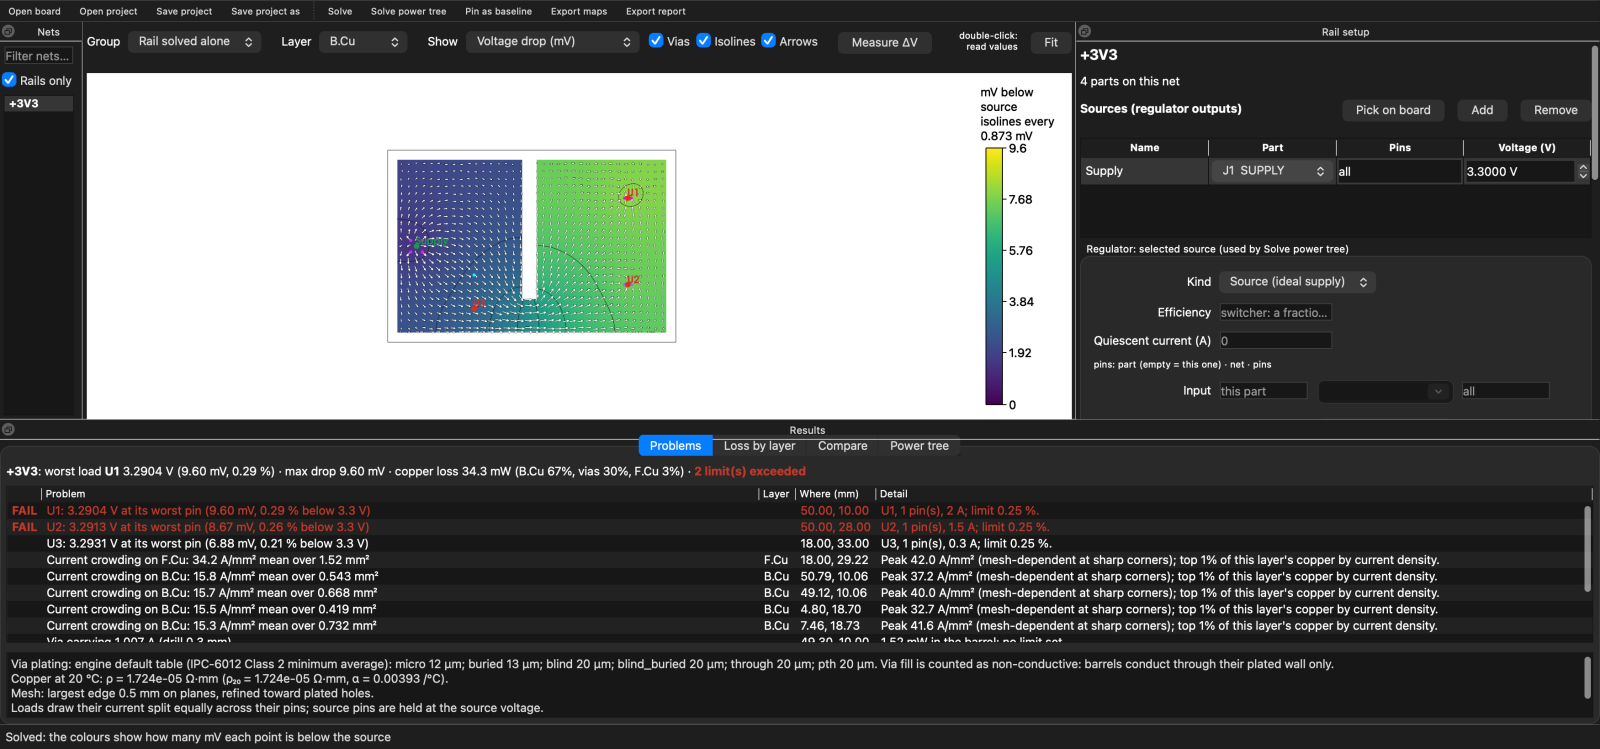
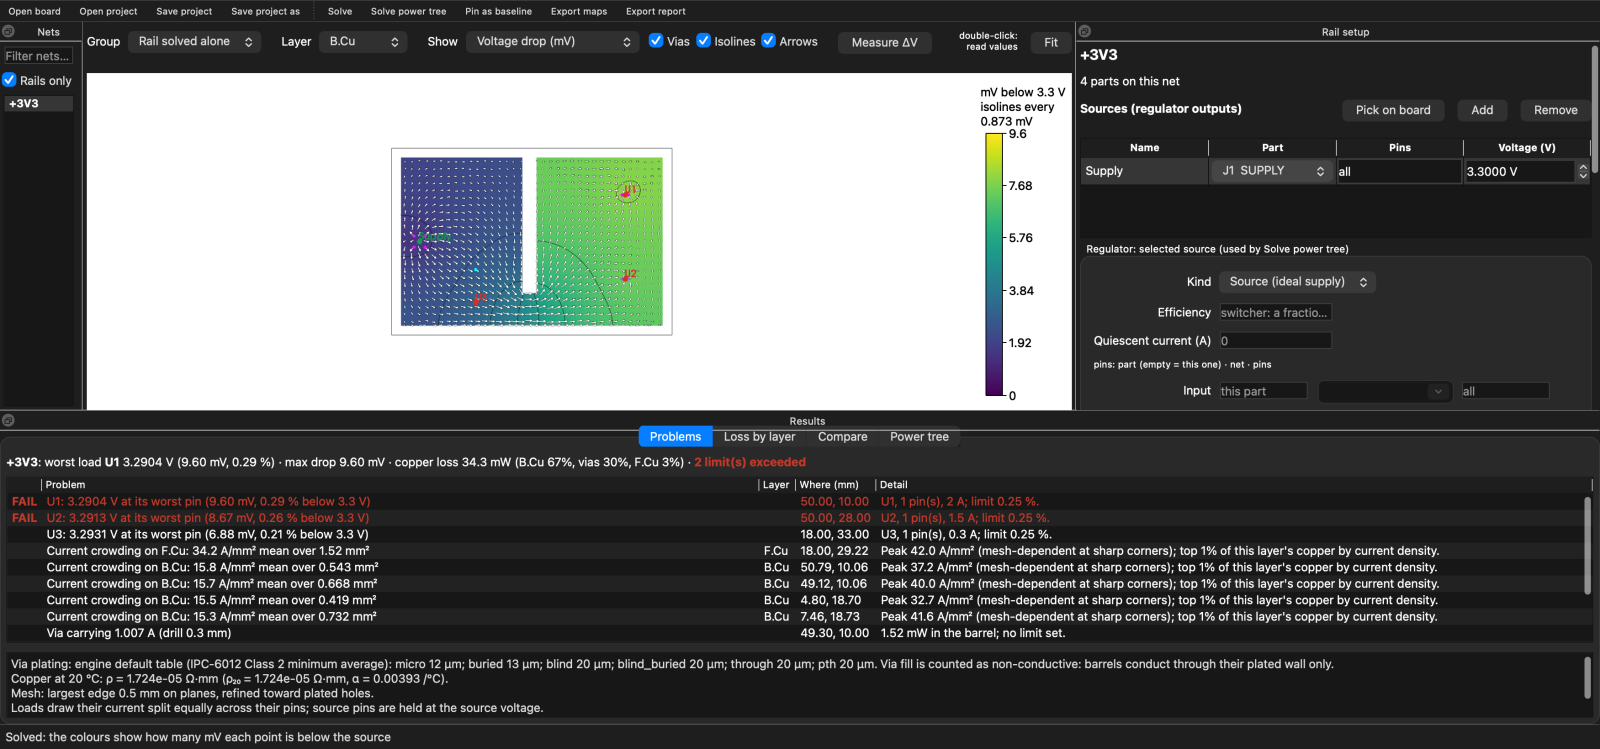
docs: README status for per-kind limits and negative rails; screenshots regenerated

diff --git a/README.md b/README.md
@@ -313,6 +313,8 @@ and links such as ferrites are described in [docs/engine-mapping.md](docs/engine
 | Power tree with ground return: regulators as loads on the rail feeding them, ground rise, remote sense; Solve power tree (Ctrl+T), Group selector, Power tree tab; `solve --tree` (and `--json`); MCP `solve_tree` | ✅ |
 | A rail solved alone draws the regulator inputs and links it feeds, estimated at nominal voltages | ✅ in the app, the CLI (`solve`, `--json`, `--html`), MCP `solve_project` and the Action; MCP `solve_rail` has no project |
 | Optional ground-rise limit (`max_ground_rise_mv`) on a ground net | ✅ (single-rail solves, the power tree, MCP, report and CI summary) |
+| Each limit judges its own kind of net: `max_ground_rise_mv` nets at 0 V (grounds), `max_drop_pct` nets with a nonzero nominal; one set on the other kind is reported as not judged, and the rail panel disables the field that does not apply | ✅ |
+| Negative rails (type a negative source voltage) and nets at 0 V solved alone show their real voltages: a negative rail's loads sit toward 0 V, a ground rises above 0 V, as in the power tree | ✅ |
 | Verdicts list what a set limit could not judge (`not_judged`, with the reason), in JSON, CLI text, report and CI summary | ✅ |
 | Power-tree verdicts: a group passes only when everything its limits apply to was judged. Items that cannot be judged (disconnected, behind a regulator out of regulation, not converged, 0 V nominal, a limit on a net the tree does not solve) give "not judged" and are named | ✅ |
 | Regulator inputs judged as loads on the rail feeding them (across input and ground pins); limits per net, a net without its own limit takes its group's main rail's; copper judged against the strictest limit in the group, and a fail names whose limit it used | ✅ |
